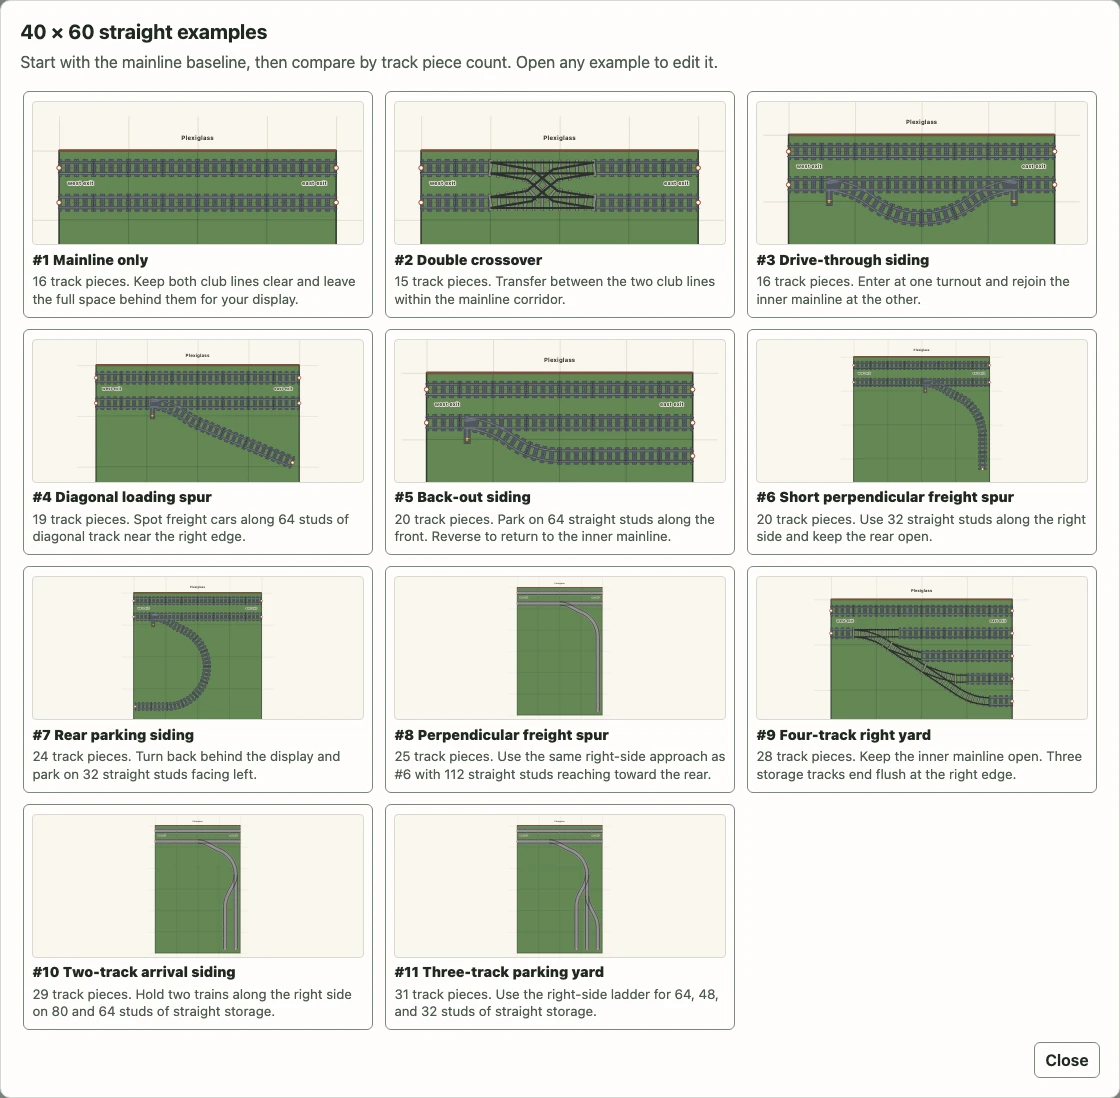
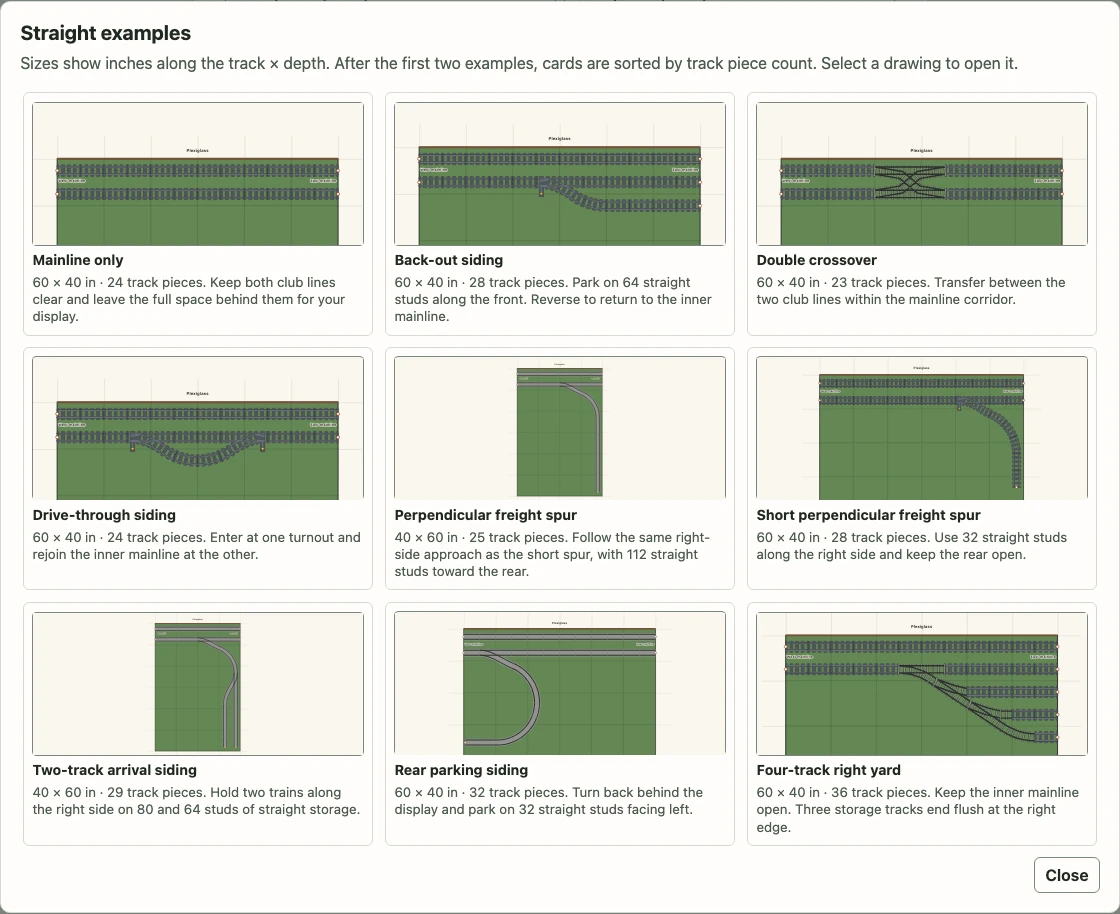
Synchronized shared style guides, tests, and repository support files...

diff --git a/src/editor_files.ts b/src/editor_files.ts
@@ -167,29 +167,35 @@ export function setupFiles(
 
   const gallery = dialog("template-gallery");
   const cards = element("template-gallery-cards");
-  const galleryCards = new Map<string, HTMLButtonElement>();
+  const galleryCards = new Map<string, { opener: HTMLButtonElement; description: HTMLElement }>();
   const showGallery = (): void => {
     gallery.showModal();
     for (const template of straightExamples) {
       let card = galleryCards.get(template.file);
       if (!card) {
-        card = document.createElement("button");
-        card.type = "button";
-        card.className = "template-card";
+        const container = document.createElement("article");
+        container.className = "template-card";
+        const opener = document.createElement("button");
+        opener.type = "button";
+        opener.setAttribute("aria-label", `Open ${template.name}`);
         const name = document.createElement("strong");
         name.textContent = template.name;
-        card.append(name, textNode("small", template.purpose));
-        card.addEventListener("click", () => {
+        const description = textNode("small", template.purpose);
+        description.id = `example-description-${template.file}`;
+        opener.setAttribute("aria-describedby", description.id);
+        container.append(opener, name, description);
+        opener.addEventListener("click", () => {
           gallery.close();
           void openTemplate(template);
         });
+        card = { opener, description };
         galleryCards.set(template.file, card);
-        cards.append(card);
+        cards.append(container);
       }
-      if (card.dataset.preview === "ready" || card.dataset.preview === "loading") continue;
-      card.dataset.preview = "loading";
-      card.disabled = true;
-      card.querySelector("[data-preview-error]")?.remove();
+      const { opener, description } = card;
+      if (opener.dataset.preview === "ready" || opener.dataset.preview === "loading") continue;
+      opener.dataset.preview = "loading";
+      opener.disabled = true;
       void (async (): Promise<void> => {
         try {
           const project = await loadTemplate(template);
@@ -202,24 +208,19 @@ export function setupFiles(
             (sum, row) => sum + row.required,
             0,
           );
-          const description = card.querySelector("small");
           const { width, depth } = areaToSignupDimensions(project.area, project.area.fronts);
-          if (description)
-            description.textContent = `${width / 3.2} × ${depth / 3.2} in · ${total} track pieces. ${template.purpose}`;
+          description.textContent = `${width / 3.2} × ${depth / 3.2} in · ${total} track pieces. ${template.purpose}`;
           preview.setAttribute("aria-hidden", "true");
-          card.prepend(preview);
+          opener.replaceChildren(preview);
           const view = preview.viewBox.baseVal;
           const size = preview.getBoundingClientRect();
           setSceneDetail(preview, Math.min(size.width / view.width, size.height / view.height));
-          card.dataset.preview = "ready";
-          card.disabled = false;
+          opener.dataset.preview = "ready";
         } catch {
-          card.dataset.preview = "failed";
-          card.disabled = false;
-          const error = textNode("small", "Preview unavailable. Open again to retry.");
-          error.dataset.previewError = "";
-          card.append(error);
+          opener.dataset.preview = "failed";
+          description.textContent = "Preview unavailable. Open again to retry.";
         }
+        opener.disabled = false;
       })();
     }
   };

diff --git a/tests/playwright/member_design.spec.ts b/tests/playwright/member_design.spec.ts
@@ -42,7 +42,7 @@ test("the gallery previews and opens editable straight examples in both orientat
   const clipped = await gallery.locator(".template-card small").evaluateAll((descriptions) =>
     descriptions
       .filter((description) => {
-        const card = description.closest("button")!;
+        const card = description.closest(".template-card")!;
         return description.getBoundingClientRect().bottom > card.getBoundingClientRect().bottom + 1;
       })
       .map((description) => description.textContent),
@@ -51,30 +51,34 @@ test("the gallery previews and opens editable straight examples in both orientat
   await expect(gallery.locator(".template-card strong")).toHaveText(
     straightExamples.map(({ name }) => name),
   );
+  await gallery.getByText("Mainline only", { exact: true }).click();
+  await expect(gallery).toBeVisible();
   await expect(
-    gallery.getByRole("button", { name: /^Double crossover 60 × 40 in · 23 track pieces/ }),
-  ).toBeVisible();
+    gallery.getByRole("button", { name: "Open Double crossover" }),
+  ).toHaveAccessibleDescription(/^60 × 40 in · 23 track pieces/);
   await page.getByRole("button", { name: "Close", exact: true }).click();
   await expect(gallery).toBeHidden();
   await expect(page.locator("#start-screen")).toBeVisible();
   await expect(page.locator("#editor")).toBeHidden();
 
   await browse.click();
-  await gallery.getByRole("button", { name: /Mainline only/ }).click();
+  await gallery.getByRole("button", { name: "Open Mainline only" }).click();
   await expect(gallery).toBeHidden();
   await expect(page.locator("#editor")).toBeVisible();
   await expect(page.getByLabel("Layout name")).toHaveValue("Mainline only");
   await expect(page.locator("#design-size")).toContainText("60 × 40");
 
   await browse.click();
-  await gallery.getByRole("button", { name: /^Short perpendicular freight spur/ }).click();
+  await gallery.getByRole("button", { name: "Open Short perpendicular freight spur" }).click();
   await expect(page.getByLabel("Layout name")).toHaveValue("Short perpendicular freight spur");
   expect(
     (await saveProject(page)).project.items.filter(({ id }) => id.startsWith("freight-straight-")),
   ).toHaveLength(2);
 
   await browse.click();
-  await gallery.getByRole("button", { name: /^Perpendicular freight spur 40 × 60 in/ }).click();
+  const longSpur = gallery.getByRole("button", { name: "Open Perpendicular freight spur" });
+  await expect(longSpur).toHaveAccessibleDescription(/^40 × 60 in/);
+  await longSpur.click();
   await expect(page.getByLabel("Layout name")).toHaveValue("Perpendicular freight spur");
   await expect(page.locator("#design-size")).toContainText("40 × 60");
 });

diff --git a/tests/playwright/control_alignment.spec.ts b/tests/playwright/control_alignment.spec.ts
@@ -137,7 +137,12 @@ for (const viewport of viewports) {
       await page.getByRole("button", { name: "Browse straight examples" }).click();
       await expect(page.locator(".template-card svg")).toHaveCount(straightExamples.length);
       await shot("02_example_gallery", "#template-gallery");
-      await rows("Example cards", "#template-gallery-cards", straightExamples.length, "button");
+      await rows(
+        "Example cards",
+        "#template-gallery-cards",
+        straightExamples.length,
+        ".template-card",
+      );
       await page.getByRole("button", { name: "Close", exact: true }).click();
 
       await createProject(page, { width: "128", depth: "192" });

diff --git a/src/index.html b/src/index.html
@@ -427,8 +427,8 @@
     <dialog id="template-gallery" aria-labelledby="template-gallery-title">
       <h2 id="template-gallery-title">Straight examples</h2>
       <p class="dialog-intro">
-        Sizes show inches along the track &times; depth. Mainline only and Back-out siding
-        come first, then the other examples are ordered by track piece count.
+        Sizes show inches along the track &times; depth. After the first two examples,
+        cards are sorted by track piece count. Select a drawing to open it.
       </p>
       <div id="template-gallery-cards" class="template-gallery-cards" aria-live="polite"></div>
       <div class="dialog-actions">

diff --git a/src/planner_build.css b/src/planner_build.css
@@ -157,18 +157,23 @@
   gap: 0.35rem;
   min-width: 0;
   padding: 0.55rem;
-  text-align: left;
-  white-space: normal;
+  border: 1px solid var(--line);
+  border-radius: 6px;
 }
-.template-card:hover:not(:disabled) {
+.template-card button:hover:not(:disabled) {
   border-color: var(--accent);
 }
-.template-card svg {
+.template-card button {
   width: 100%;
   height: clamp(7rem, 13vh, 9rem);
-  border: 1px solid var(--line);
+  padding: 0;
   border-radius: 4px;
   background: var(--board);
+}
+.template-card svg {
+  display: block;
+  width: 100%;
+  height: 100%;
 }
 .template-card strong {
   font-size: 0.88rem;

diff --git a/docs/CHANGELOG.md b/docs/CHANGELOG.md
@@ -6,8 +6,8 @@
 
 - Set seven straight examples to 60 inches along the track by 40 inches deep
   and show dimensions on each card. Keep the long freight spur and two-track
-  arrival siding deeper. Retire the diagonal spur and three-track parking yard,
-  drop example numbers, and place Back-out siding after Mainline only.
+  arrival siding deeper. Retire the diagonal spur and three-track parking yard.
+  Put Back-out siding after Mainline only and label the cards with selectable names.
 - Number the straight examples and sort after the mainline baseline by track
   piece count. Frame the track in each preview. Consolidate duplicate
   sidings, move perpendicular tracks to the right, and fill the four-track
@@ -59,7 +59,7 @@
   spacing diagnostics at 16 studs and at 64 studs after an S-curve.
 - Reworked the opening screen around the assigned display area, with visible
   template and saved-plan paths, and kept the editor closed until a plan exists.
-
+- Synchronized shared style guides, tests, and repository support files from the starter template.
 ## 2026-11-24
 
 ### Additions and new features
